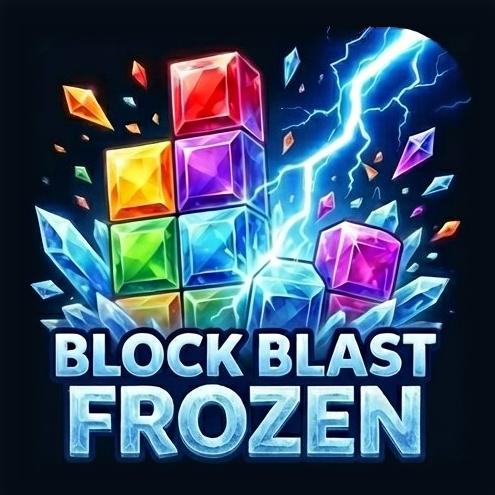
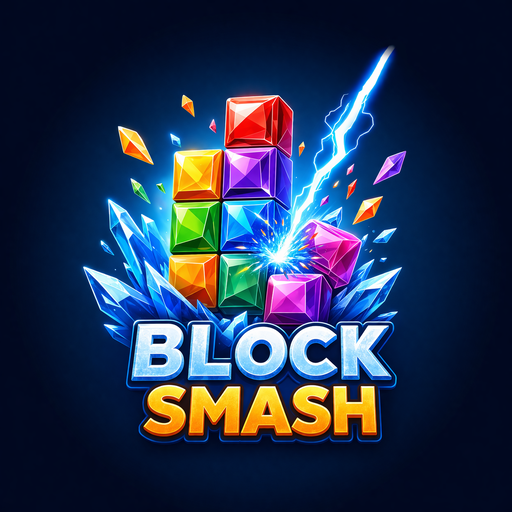
name & asset changes to block smash

diff --git a/index.html b/index.html
@@ -3,8 +3,8 @@
 <head>
     <meta charset="UTF-8">
     <meta name="viewport" content="width=device-width, initial-scale=1.0">
-    <title>Block Blast Frozen - Crystal Puzzle Game | Vedrix Labs</title>
-    <meta name="description" content="Block Blast Frozen - a frosty crystal puzzle game. Match, Blast, Repeat on a 9x9 board with 21 shapes, powerups, and stunning ice animations. Free on Android and iOS.">
+    <title>Block Smash - Crystal Puzzle Game | Vedrix Labs</title>
+    <meta name="description" content="Block Smash - a frosty crystal puzzle game. Match, Blast, Repeat on a 9x9 board with 21 shapes, powerups, and stunning ice animations. Free on Android and iOS.">
     <link rel="icon" type="image/png" href="assets/app_icon.png">
     <link rel="preconnect" href="https://fonts.googleapis.com">
     <link rel="preconnect" href="https://fonts.gstatic.com" crossorigin>
@@ -916,8 +916,8 @@
     <nav>
         <div class="container">
             <a href="index.html" class="nav-brand">
-                <img src="assets/app_icon.png" alt="Block Blast Frozen">
-                <span>Block Blast Frozen</span>
+                <img src="assets/app_icon.png" alt="Block Smash">
+                <span>Block Smash</span>
             </a>
             <a href="#download" class="nav-cta">
                 Download Free
@@ -929,7 +929,7 @@
     <section class="hero">
         <div class="container">
             <div class="hero-banner">
-                <img src="assets/feature_graphic.png" alt="Block Blast Frozen - Crystal Match Blast Repeat">
+                <img src="assets/feature_graphic.png" alt="Block Smash - Crystal Match Blast Repeat">
             </div>
             <p class="hero-subtitle">Place crystal ice blocks on a 9x9 board, clear lines with strategic precision, and unleash powerful blasts in this frosty puzzle adventure.</p>
             <div class="hero-buttons">
@@ -1138,7 +1138,7 @@
                 <div class="showcase-content">
                     <p class="section-label">The Blocks</p>
                     <h2>Simple to Learn, Hard to Master</h2>
-                    <p>Block Blast Frozen combines satisfying block puzzle mechanics with a beautiful frozen aesthetic. Drag and drop crystal pieces onto the board, complete rows and columns to shatter them with stunning ice animations, and use strategic powerups to keep your game alive.</p>
+                    <p>Block Smash combines satisfying block puzzle mechanics with a beautiful frozen aesthetic. Drag and drop crystal pieces onto the board, complete rows and columns to shatter them with stunning ice animations, and use strategic powerups to keep your game alive.</p>
                     <div class="stat-row">
                         <div class="stat">
                             <div class="stat-value">9x9</div>
@@ -1167,7 +1167,7 @@
         <div class="container">
             <div class="cta-box">
                 <h2>Ready to Break the Ice?</h2>
-                <p>Download Block Blast Frozen for free and start your frosty puzzle adventure today.</p>
+                <p>Download Block Smash for free and start your frosty puzzle adventure today.</p>
                 <div class="hero-buttons">
                     <a href="https://play.google.com/store/apps/details?id=com.vedrixlabs.blockblastfrozen" class="btn btn-primary" target="_blank" rel="noopener">
                         <svg viewBox="0 0 24 24" fill="currentColor"><path d="M3.609 1.814L13.792 12 3.61 22.186a.996.996 0 01-.61-.92V2.734a1 1 0 01.609-.92zm10.89 10.893l2.302 2.302-10.937 6.333 8.635-8.635zm3.199-3.199l2.302 2.302a1 1 0 010 1.38l-2.302 2.302L15.396 12l2.302-2.492zM5.864 2.658L16.8 9.99l-2.302 2.302-8.634-8.634z"/></svg>

diff --git a/terms-of-use.html b/terms-of-use.html
@@ -4,7 +4,7 @@
     <meta charset="UTF-8">
     <meta name="viewport" content="width=device-width, initial-scale=1.0">
     <title>Terms of Use - Vedrix Labs</title>
-    <meta name="description" content="Terms of Use for Block Blast Frozen by Vedrix Labs.">
+    <meta name="description" content="Terms of Use for Block Smash by Vedrix Labs.">
     <link rel="icon" type="image/png" href="assets/app_icon.png">
     <link rel="preconnect" href="https://fonts.googleapis.com">
     <link rel="preconnect" href="https://fonts.gstatic.com" crossorigin>
@@ -215,7 +215,7 @@
     </div>
 
     <div class="legal-content">
-        <p>These Terms of Use ("Terms") govern your access to and use of the Block Blast Frozen mobile application ("App") developed and published by Vedrix Labs ("we," "our," or "us"). By downloading, installing, or using the App, you agree to be bound by these Terms. If you do not agree, do not use the App.</p>
+        <p>These Terms of Use ("Terms") govern your access to and use of the Block Smash mobile application ("App") developed and published by Vedrix Labs ("we," "our," or "us"). By downloading, installing, or using the App, you agree to be bound by these Terms. If you do not agree, do not use the App.</p>
 
         <h2>1. Eligibility</h2>
         <p>You must be at least 13 years of age to use this App. If you are under 18, you represent that your parent or legal guardian has reviewed and agreed to these Terms on your behalf. By using the App, you represent and warrant that you meet these eligibility requirements.</p>
@@ -256,7 +256,7 @@
         <p>The App may include a leaderboard feature. By submitting your score, you grant us the right to display your submitted name and score publicly. We reserve the right to remove any leaderboard entry that we determine, in our sole discretion, to be fraudulent, offensive, or in violation of these Terms.</p>
 
         <h2>7. Intellectual Property</h2>
-        <p>All content in the App -- including but not limited to graphics, artwork, animations, sounds, text, game design, code, and the "Block Blast Frozen" name and logo -- is owned by or licensed to Vedrix Labs and is protected by intellectual property laws. You may not use any of our intellectual property without prior written permission.</p>
+        <p>All content in the App -- including but not limited to graphics, artwork, animations, sounds, text, game design, code, and the "Block Smash" name and logo -- is owned by or licensed to Vedrix Labs and is protected by intellectual property laws. You may not use any of our intellectual property without prior written permission.</p>
 
         <h2>8. User Content</h2>
         <p>If you submit any content through the App (such as a leaderboard display name), you represent that:</p>

diff --git a/privacy-policy.html b/privacy-policy.html
@@ -4,7 +4,7 @@
     <meta charset="UTF-8">
     <meta name="viewport" content="width=device-width, initial-scale=1.0">
     <title>Privacy Policy - Vedrix Labs</title>
-    <meta name="description" content="Privacy Policy for Block Blast Frozen by Vedrix Labs.">
+    <meta name="description" content="Privacy Policy for Block Smash by Vedrix Labs.">
     <link rel="icon" type="image/png" href="assets/app_icon.png">
     <link rel="preconnect" href="https://fonts.googleapis.com">
     <link rel="preconnect" href="https://fonts.gstatic.com" crossorigin>
@@ -215,7 +215,7 @@
     </div>
 
     <div class="legal-content">
-        <p>Vedrix Labs ("we," "our," or "us") operates the Block Blast Frozen mobile application (the "App"). This Privacy Policy explains how we collect, use, disclose, and safeguard your information when you use our App. Please read this policy carefully. By using the App, you agree to the collection and use of information in accordance with this policy.</p>
+        <p>Vedrix Labs ("we," "our," or "us") operates the Block Smash mobile application (the "App"). This Privacy Policy explains how we collect, use, disclose, and safeguard your information when you use our App. Please read this policy carefully. By using the App, you agree to the collection and use of information in accordance with this policy.</p>
 
         <h2>1. Information We Collect</h2>
 
@@ -286,7 +286,7 @@
         <p>Locally stored data (game progress, scores, preferences) persists on your device until you uninstall the App or clear the App's data. Leaderboard submissions are retained on our servers indefinitely to maintain the leaderboard. We may delete inactive leaderboard entries periodically.</p>
 
         <h2>9. Children's Privacy</h2>
-        <p>Block Blast Frozen is not directed at children under the age of 13. We do not knowingly collect personal information from children under 13. If you are a parent or guardian and you believe your child has provided us with personal information, please contact us at the email address below, and we will take steps to delete such information.</p>
+        <p>Block Smash is not directed at children under the age of 13. We do not knowingly collect personal information from children under 13. If you are a parent or guardian and you believe your child has provided us with personal information, please contact us at the email address below, and we will take steps to delete such information.</p>
 
         <h2>10. Data Security</h2>
         <p>We implement reasonable technical and organizational measures to protect the information we collect. However, no method of electronic transmission or storage is 100% secure, and we cannot guarantee absolute security.</p>

diff --git a/download/index.html b/download/index.html
@@ -3,8 +3,8 @@
 <head>
     <meta charset="UTF-8">
     <meta name="viewport" content="width=device-width, initial-scale=1.0">
-    <title>Download Block Blast Frozen | Vedrix Labs</title>
-    <meta name="description" content="Download Block Blast Frozen - a frosty crystal puzzle game. Free on Android and iOS.">
+    <title>Download Block Smash | Vedrix Labs</title>
+    <meta name="description" content="Download Block Smash - a frosty crystal puzzle game. Free on Android and iOS.">
     <link rel="icon" type="image/png" href="../assets/app_icon.png">
     <style>
         body {

diff --git a/CLAUDE.md b/CLAUDE.md
@@ -4,7 +4,7 @@ This file provides guidance to Claude Code (claude.ai/code) when working with co
 
 ## Project Overview
 
-Static marketing website for **Block Blast Frozen**, a mobile puzzle game by **Vedrix Labs**. No build system, bundler, or framework — just plain HTML/CSS/JS served as static files.
+Static marketing website for **Block Smash**, a mobile puzzle game by **Vedrix Labs**. No build system, bundler, or framework — just plain HTML/CSS/JS served as static files.
 
 ## Architecture
 
